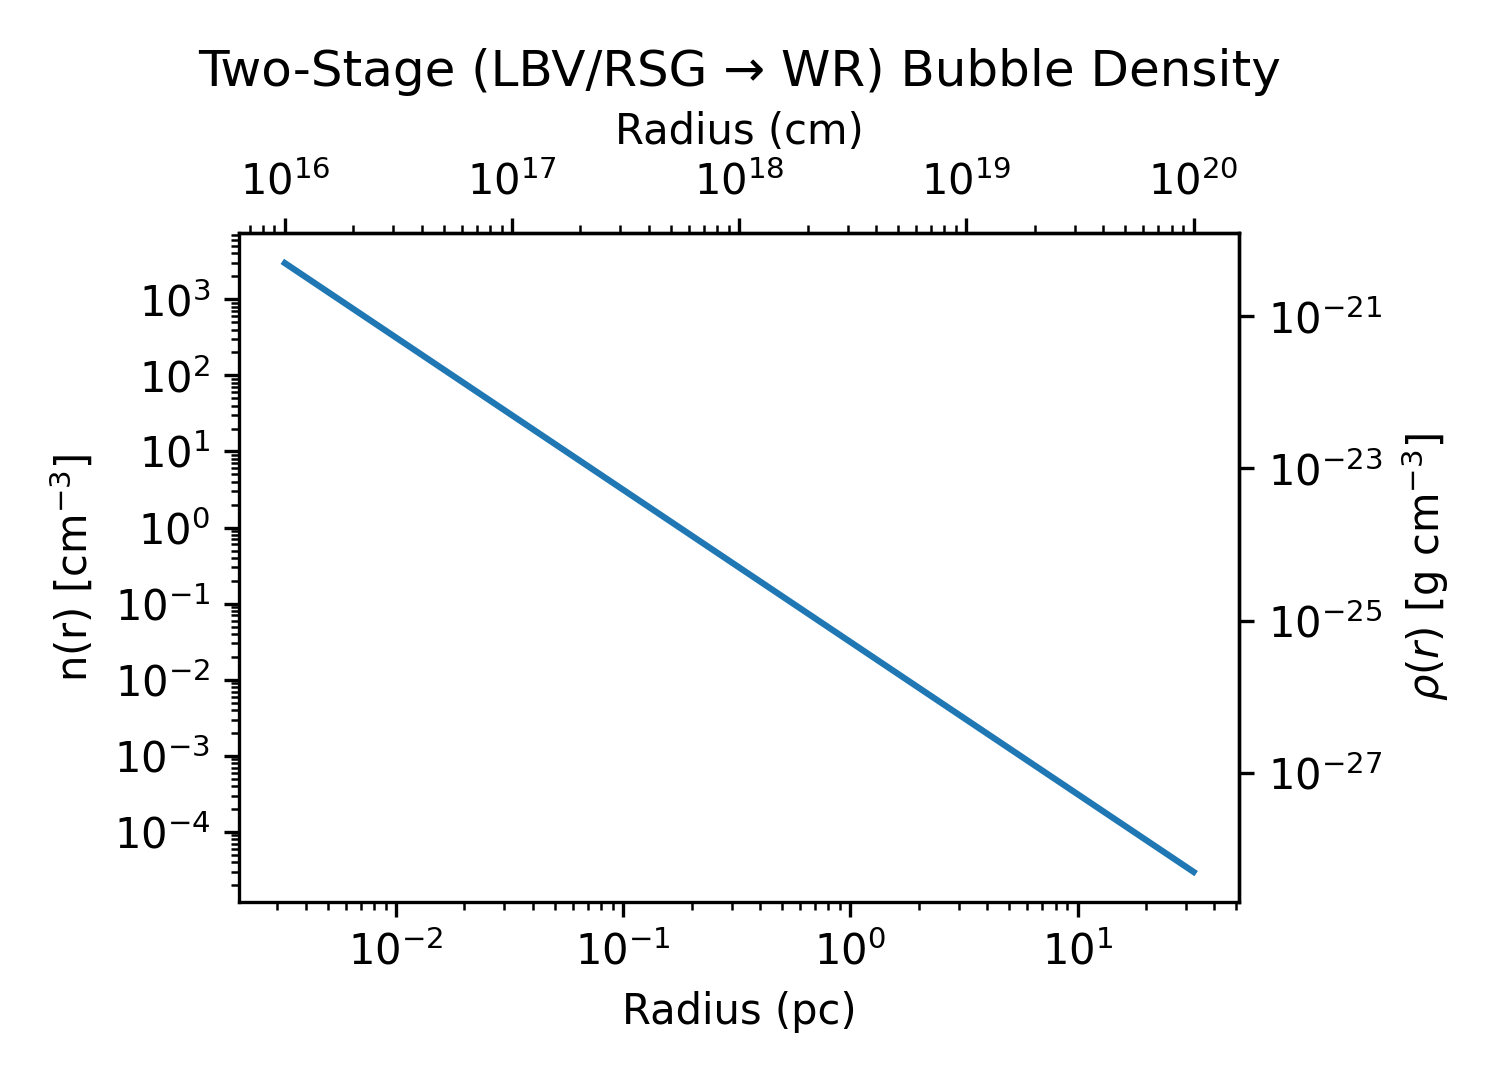
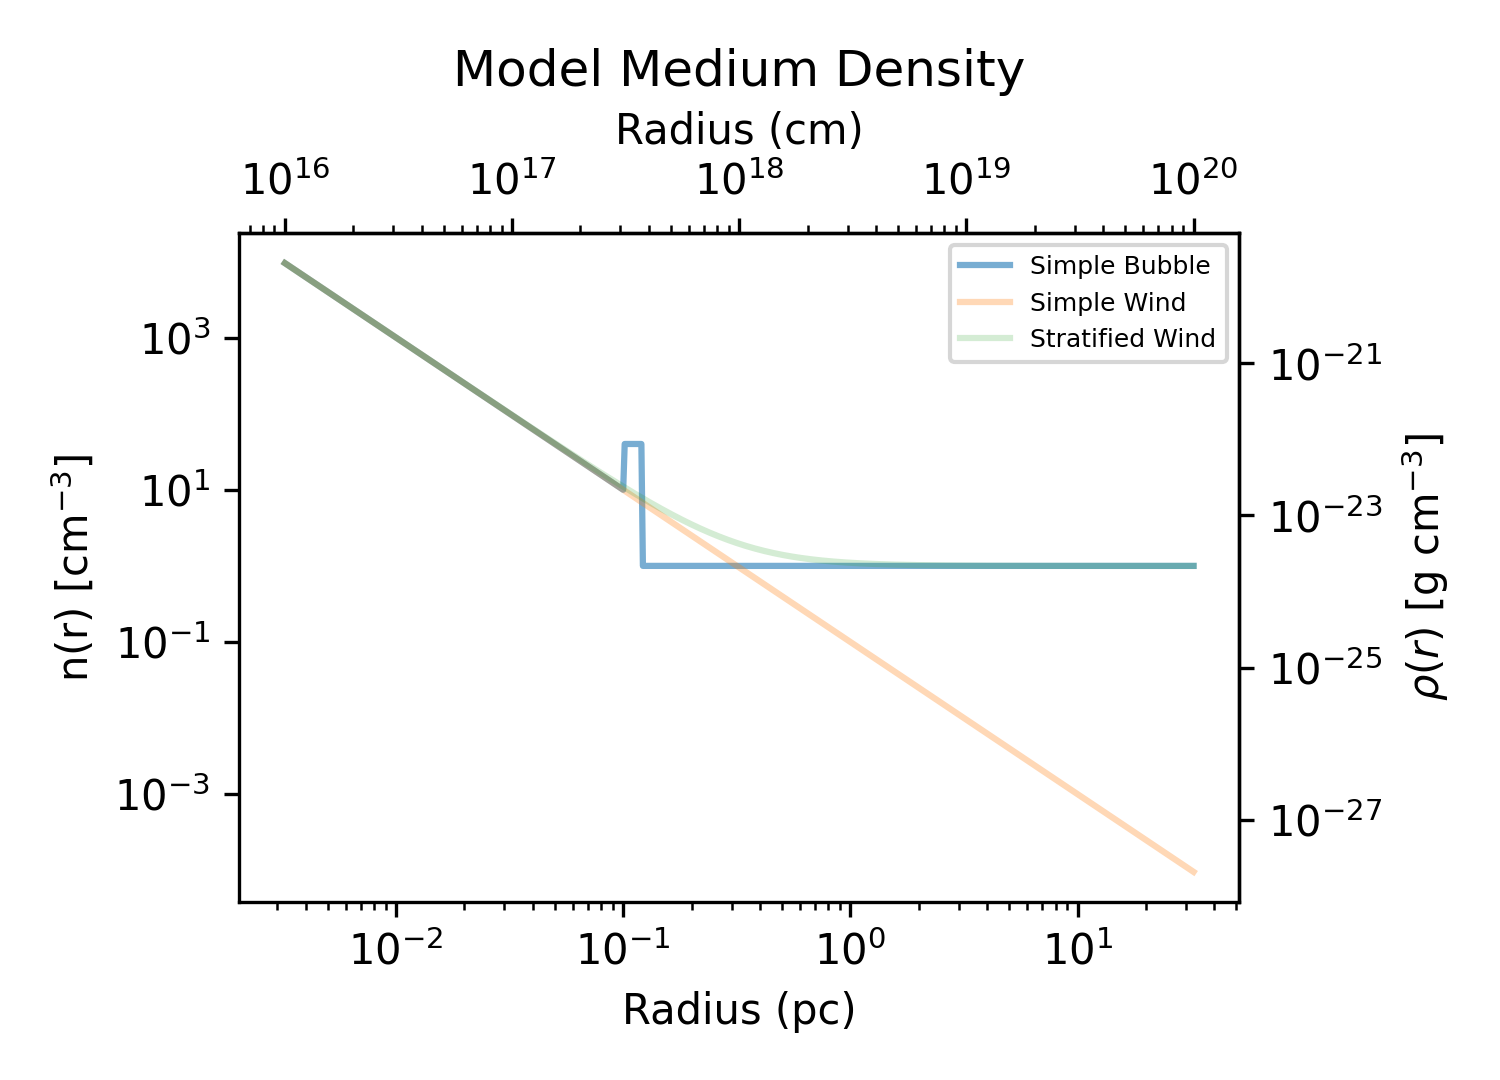
It seems to be reading the data and Dylan's parameters, and then running emcee.

diff --git a/Wind_Bubble_Model.py b/Wind_Bubble_Model.py
@@ -1,123 +1,127 @@
 # -*- coding: utf-8 -*-
 import numpy as np
 import matplotlib.pyplot as plt
-from VegasAfterglow import TophatJet, Observer, Radiation, Model, Medium
+from VegasAfterglow import TophatJet, Observer, Radiation, Model, Medium, Wind
 from os import makedirs
+import astropy as ap
 
 # ---------- setup ----------
 makedirs("assets", exist_ok=True)
 
+debug = True
+
 # constants (cgs)
 pi   = np.pi
-mp   = 1.67262192369e-24
-kb   = 1.3806488e-16
-year = 3.15576e7
-Msun = 1.98847e33
-pc_to_cm = 3.086e18
+mp   = 1.67262192369e-24  #  g
+mu   = 1.3
+m_mol = mu * mp
+kb   = 1.3806488e-16  # erg/K
+day  = 86400.0   # s
+year = 3.15576e7 # s
+Msun = 1.98847e33 # g
+pc_to_cm = 3.086e18 # cm
 
-# ---------- two-stage (slow → WR) density ----------
-def make_two_stage_density(
-    # WR (inner, fast)
-    Mdot_WR = 6e-6 * Msun / year,   # g/s  (≈ 6e-6 Msun/yr)
-    v_WR    = 2e8,                  # cm/s (≈ 2000 km/s)
-    t_WR    = 1e4 * year,           # s    (10^4 yr)
+# ---------- FREE PARAMETERS ARE GLOBALS n_ism, n_t, R_t  ----------
+n_ism   = 1.0          # cm^-3
+R_t = 0.1 * pc_to_cm   ## #   Bubble Size in cm
+n_t = 10.0             # Density just inside the termination shock
+#  ------------------------------------------------------------------
 
-    # Slow phase (LBV/RSG)
-    Mdot_slow = 3e-5 * Msun / year, # g/s  (≈ 3e-5 Msun/yr)
-    v_slow    = 2.5e6,              # cm/s (≈ 25 km/s → RSG; use 1e7 for LBV 100 km/s)
-    t_slow    = 5e4 * year,         # s    (5×10^4 yr laid down pre-WR)
-
-    # ISM
-    n_ism   = 1.0,                  # cm^-3
-    rho_ism = None,                 # g/cm^3; if None, set to n_ism*mp
-
-    # shell placement & mass loading
-    shell_mode    = "kinematic",    # "kinematic" or "fractional"
-    frac_Rsh      = 0.5,            # if "fractional": R_sh = frac_Rsh * R_slow
-    f_sweep       = 0.7,            # fraction of slow-wind mass (inside R_sh) swept into shell
-    rel_thickness = 0.03            # ΔR / R_sh (geometrically thin)
-):
+def rho(phi, theta, r):
     """
-    Returns: rho(phi,theta,r) [g/cm^3], meta dict
-    Inner WR wind, thin swept shell at R_sh, slow wind out to R_slow, ISM beyond.
+    Returns: rho(phi,theta,r) [g/cm^3],
+    Very simple shell assuming it is mixed
     """
-    if rho_ism is None:
-        rho_ism = n_ism * mp
+    # Parameters to be fit
+    global R_t, n_t, n_ism
+    n_sh = max(4 * n_t, 4 * n_ism)  ## strong shock factor of 4 in density & guarantees n_sh > n_ism
+    # region boundary
+    # R1 would be R_t   R2 us outside of shell
+    R2 = R_t * ((n_sh + 3*n_t) / (n_sh - n_ism)) ** 0.333  # shell outer --> ISM
+    # Notice the limits.  Very important that it is continuous if n_t = n_ism
+    #   if n_t > n_ism then:    R2 = ( 7 n_t )/(4 n_t - n_ism)  R_t
+    #   if n_t >> n_ism   R2 ~ (7/4)R_t  + (7/16) (n_ism/n_t)
+    #   if n_t >>> n_ism        R2 ~ (7/4)R_t    ### 7/4 = 1.75
+    #   if n_t >== n_ism        R2 ~ (7/3)R_t    ### 7/3 = 2.33
+    #   if n_t <== n_ism        R2 ~ (7/3)R_t --- CHECK!!!  No jumps in parameter space
+    #   if n_t < n_ism then:    R2 = ( (4/3) + n_t/n_ism) R_t
+    #   if n_t << n_ism then:   R2 ~ (4/3) R_t  ### 4/3 = 1.33
+    #   Notice the bubble is biggest, compared to R_t, if n_t and n_ism are near each other
+    #   Also, this makes the most physical sense if n_t > n_ism.
+    #   Remember the model assumes n_ism kT_ism = m_p n_t v_wind**2 at R_t
+    #   This model assumes that the same amount of mass that is in the wind,
+    #   is also in the shell.
+    #   After radiative cooling occurs, the mass of the shell will stay the
+    #   same, but it will become thinner.  Also, the WR stage would probably have started
+    #   and we probably would have a superwind.
 
-    # A-parameters (g cm^-1)
-    A_WR   = Mdot_WR   / (4.0 * pi * v_WR)
-    A_slow = Mdot_slow / (4.0 * pi * v_slow)
+    ## convert to density in cgs
+    rho_t = n_t * m_mol
+    rho_sh = n_sh * m_mol
+    rho_ism = n_ism * m_mol
 
-    # slow wind extent (laid down before WR)
-    R_slow = max(1e15, v_slow * t_slow)
+    if debug:
+        meta = {"R_sh": 0.5 * (R2 - R_t), "dR": R2 - R_t, "n_t": n_t,
+                "rho_t": rho_t, "n_shell": n_sh,
+                "rho_shell": rho_sh, "n_ism": n_ism, "rho_ism": rho_ism}
+        print(meta)
 
-    # shell radius
-    if shell_mode.lower().startswith("kin"):
-        R_sh = max(1e15, min(R_slow, v_slow * t_WR))
+    # free wind
+    if r < R_t:
+        return  rho_t * (R_t/r)**2
+    # thin shell
+    elif r < R2:
+        return rho_sh
+    # ism
     else:
-        R_sh = max(1e15, min(R_slow, frac_Rsh * R_slow))
-
-    # shell thickness
-    dR = max(1e-3 * R_sh, rel_thickness * R_sh)
-
-    # mass of slow wind interior to R_sh (for ρ∝r^-2: M(<R)=(Mdot/v)*R)
-    M_slow_in = (Mdot_slow / v_slow) * R_sh
-    M_shell   = f_sweep * M_slow_in
-
-    # uniform shell density (mass / volume of thin spherical shell)
-    rho_shell = M_shell / (4.0 * pi * R_sh**2 * dR)
-
-    # region boundaries
-    R1 = R_sh        # WR wind → shell inner
-    R2 = R_sh + dR   # shell outer
-    R3 = R_slow      # slow wind outer
-
-    def rho(phi, theta, r):
-        # free WR wind
-        if r < R1:
-            return A_WR / (r**2)
-        # thin shell
-        if r < R2:
-            return rho_shell
-        # slow wind zone
-        if r < R3:
-            return A_slow / (r**2)
-        # ambient ISM
         return rho_ism
 
-    meta = {"R_sh": R_sh, "dR": dR, "R_slow": R_slow,
-            "rho_shell": rho_shell, "A_WR": A_WR, "A_slow": A_slow,
-            "n_ism": n_ism, "rho_ism": rho_ism}
-    return rho, meta
-
 # build one medium (tweak parameters here as desired)
-rho_fn, meta = make_two_stage_density(
-    # choose LBV or RSG character by v_slow; other knobs above
-    v_slow=2.5e6,        # 25 km/s (RSG-like)
-    n_ism=1.0,           # cm^-3
-    f_sweep=0.7,
-    rel_thickness=0.03
-)
-medium = Medium(rho=rho_fn)
+
+bubble = Medium(rho=rho)
+A = m_mol*n_t*R_t*R_t  # in cgs  ## VA assumes a mu of 1.3 I guess depends on the helium too
+wind = Wind(A_star=A/5E11)
+wind_2 = Wind(A_star=A/5E11,n_ism=n_ism*mu)  ## Vegas Afterglow is not consistent on mean molecular weight
 
 # ---------- model (jet/observer/radiation) ----------
 jet = TophatJet(theta_c=0.1, E_iso=1e52, Gamma0=300)
 obs = Observer(lumi_dist=1e26, z=0.1, theta_obs=0)
 rad = Radiation(eps_e=1e-1, eps_B=1e-3, p=2.3)
-model = Model(jet=jet, medium=medium, observer=obs, fwd_rad=rad)
+
+models = []  ; model_names = []
+model = Model(jet=jet, medium=bubble, observer=obs, fwd_rad=rad)
+model_names.append("Simple Bubble")
+models.append(model)
+model = Model(jet=jet, medium=wind, observer=obs, fwd_rad=rad)
+model_names.append("Simple Wind")
+models.append(model)
+model = Model(jet=jet, medium=wind_2, observer=obs, fwd_rad=rad)
+model_names.append("Stratified Wind")
+models.append(model)
 
 # ---------- density profile plot with twin axes ----------
-r = np.logspace(16, 20, 600)                     # cm
-#rho_profile = np.array([rho_fn(0, 0, ri) for ri in r])
-rho_profile = model.medium(0,0,r)
-n_profile   = rho_profile / mp
+# ---------- density profile from the model's medium ----------
+
+r = np.logspace(16, 20, 600)  # cm
+
+# vectorized evaluation using the model's medium (returns g/cm^3)
+
+#rho_profile = np.array([medium_rho(model, 0.0, 0.0, ri) for ri in r])
 
 fig, ax1 = plt.subplots(figsize=(5, 3.6), dpi=200)
-ax1.loglog(r / pc_to_cm, n_profile, color='C0', lw=1.5)
+
+for i,model in enumerate(models):
+    rho_profile = np.asarray(model.medium(0.0, 0.0, r), dtype=float)
+    # convert to number density if you want n(r)
+    n_profile = rho_profile / (m_mol)  # cm^-3
+    ax1.loglog(r / pc_to_cm, n_profile, lw=1.5, label=model_names[i],
+               alpha=0.6/(i+1))
+
+
 ax1.set_xlabel('Radius (pc)')
 ax1.set_ylabel(r'n(r) [cm$^{-3}$]')
-ax1.set_title('Two-Stage (LBV/RSG → WR) Bubble Density')
-
+ax1.set_title('Model Medium Density')
+ax1.legend(fontsize=6)
 # top x-axis in cm
 def pc_to_cm_f(x):  return x * pc_to_cm
 def cm_to_pc_f(x):  return x / pc_to_cm
@@ -125,8 +129,8 @@ ax2 = ax1.secondary_xaxis('top', functions=(pc_to_cm_f, cm_to_pc_f))
 ax2.set_xlabel('Radius (cm)')
 
 # right y-axis in ρ
-def n_to_rho(y):  return y * mp
-def rho_to_n(y):  return y / mp
+def n_to_rho(y):  return y * (m_mol)
+def rho_to_n(y):  return y / (m_mol)
 ax3 = ax1.secondary_yaxis('right', functions=(n_to_rho, rho_to_n))
 ax3.set_ylabel(r'$\rho(r)$ [g cm$^{-3}$]')
 
@@ -134,34 +138,43 @@ plt.tight_layout()
 plt.savefig("assets/density_profile.png", dpi=300)
 plt.show()
 
+
 # ---------- light curves (multi-band) ----------
 # ---------- combined multi-band light curves with dual x- and y-axes ----------
 times = np.logspace(2, 8, 200)           # seconds
-times_days = times / 86400.0
+times_days = times / day
 bands = np.array([1e9, 1e14, 1e17])      # Hz (radio, optical, X-ray)
 band_names = ["Radio", "Optical", "X-ray"]
-
-lc = model.flux_density_grid(times, bands)  # erg cm^-2 s^-1 Hz^-1
+lcs = []
+for model in models:
+    lcs.append( model.flux_density_grid(times, bands) ) # erg cm^-2 s^-1 Hz^-1
 
 fig, ax1 = plt.subplots(figsize=(5.8, 3.8), dpi=200)
 
+i =0
 # --- main plot (bottom axis: seconds, flux in Jy) ---
 for j, (name, nu) in enumerate(zip(band_names, bands)):
     exp = int(np.log10(nu))
-    label = fr'{name} ($10^{{{exp}}}$ Hz)'
-    ax1.loglog(times, lc.total[j, :] * 1e23,
-               color=f'C{j}', lw=1.6, label=label)
+    for k, lc in enumerate(lcs):
+        label = fr'{name} ($10^{{{exp}}}$ Hz)' + " " + str(model_names[k])
+        if model_names[k] == "Simple Bubble":
+            alpha = 0.75
+        else:
+            alpha
+        ax1.loglog(times, lc.total[j, :] * 1e23,
+                   color=f'C{3*j+k}', lw=1.6, label=label, alpha=alpha)
+        i = i+1
 
 ax1.set_xlabel('Time (s)')
 ax1.set_ylabel('Flux Density (Jy)')
 ax1.set_title('Afterglow Light Curves in Multiple Bands')
 
 # --- legend (LaTeX formatted) ---
-ax1.legend(title='Band', ncol=1, fontsize=9, title_fontsize=10)
+ax1.legend(ncol=len(bands), fontsize=3)
 
 # --- top axis: time in days ---
-def s_to_days(x):  return x / 86400.0
-def days_to_s(x):  return x * 86400.0
+def s_to_days(x):  return x / day
+def days_to_s(x):  return x * day
 ax2 = ax1.secondary_xaxis('top', functions=(s_to_days, days_to_s))
 ax2.set_xlabel('Time (days)')
 
@@ -175,25 +188,23 @@ plt.tight_layout()
 plt.savefig('assets/lightcurves_all_bands.png', dpi=300)
 plt.show()
 
-# ---------- spectra at selected epochs ----------
-frequencies = np.logspace(5, 22, 300)    # Hz
-epochs      = np.array([1e2, 1e3, 1e4, 1e5, 1e6, 1e7, 1e8])  # s
-epochs_days = epochs / 86400.0
-
-spec_grid = model.flux_density_grid(epochs, frequencies)  # shape ~ [len(freq), len(time)]
-
 ###
 # ---------- spectra at selected epochs (all on one figure) ----------
 frequencies = np.logspace(5, 22, 300)    # Hz
-epochs      = np.array([1e2, 1e3, 1e4, 1e5, 1e6, 1e7, 1e8])  # s
-epochs_days = epochs / 86400.0
+epochs      = np.array([1e3, 1e4, 1e5, 1e6, 1e7, 1e8])  # s
+epochs_days = epochs / day
 
 # Compute spectral evolution: Fν(ν, t)
-spec_grid = model.flux_density_grid(epochs, frequencies)  # shape ≈ [len(freq), len(time)]
+spec_grids = []
+for model in models:
+    spec_grids.append(model.flux_density_grid(epochs, frequencies)  ) # shape ≈ [len(freq), len(time)]
 
 # --- Plot all epochs on one figure ---
 plt.figure(figsize=(5.5, 3.8), dpi=200)
-colors = plt.cm.plasma(np.linspace(0, 1, len(epochs)))
+colors = plt.cm.plasma(np.linspace(0, 1, 3*len(epochs)))
+# Mark radio / optical / X-ray bands
+for k, nu in enumerate(bands):
+    plt.axvline(nu, ls='--', color=f'C{k}', alpha=0.6)
 
 for j, tsec in enumerate(epochs):
     # nice epoch label
@@ -203,19 +214,16 @@ for j, tsec in enumerate(epochs):
         label = fr'$10^{{{exp}}}\,\mathrm{{s}}$'
     else:
         label = fr'${base:.1f}\times10^{{{exp}}}\,\mathrm{{s}}$'
-
-    plt.loglog(frequencies, spec_grid.total[:, j] * 1e23,
-               color=colors[j], lw=1.5, label=label)
-
-# Mark radio / optical / X-ray bands
-for k, nu in enumerate(bands):
-    plt.axvline(nu, ls='--', color=f'C{k}', alpha=0.6)
+    for k, spec_grid in enumerate(spec_grids):
+        new_label = label + ' ' + model_names[k]
+        plt.loglog(frequencies, spec_grid.total[:, j] * 1e23,
+                   color=colors[3*j+k], lw=1.5, label=new_label, alpha=0.3)
 
 # Labels and legend
 plt.xlabel('Frequency (Hz)')
 plt.ylabel('Flux Density (Jy)')
 plt.title('Synchrotron Spectra at Multiple Epochs')
-plt.legend(title='Epoch (s)', ncol=2, fontsize=8, title_fontsize=9, loc='best')
+plt.legend(ncol=len(epochs), fontsize=(3*7/len(epochs)), loc='lower center')
 
 plt.tight_layout()
 plt.savefig('assets/spectra_all_epochs.png', dpi=300)
